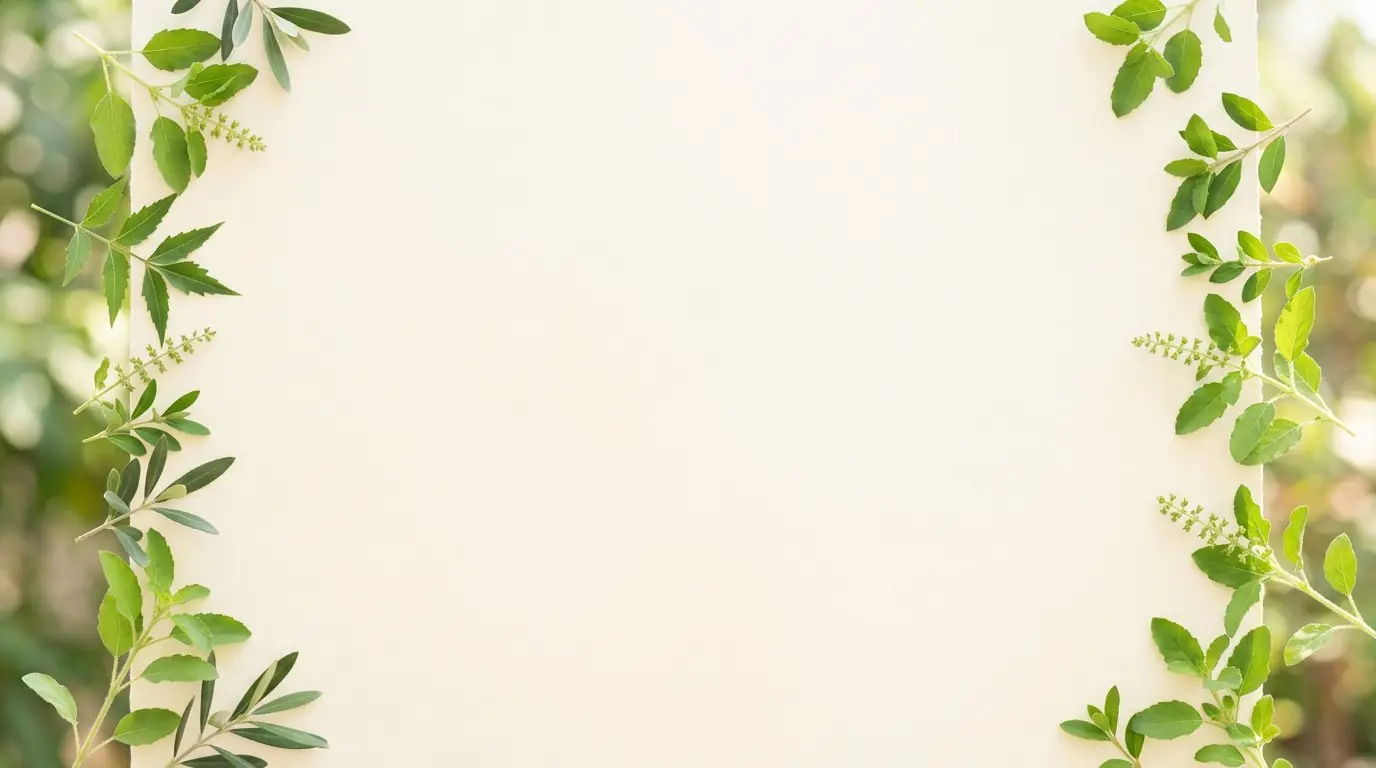
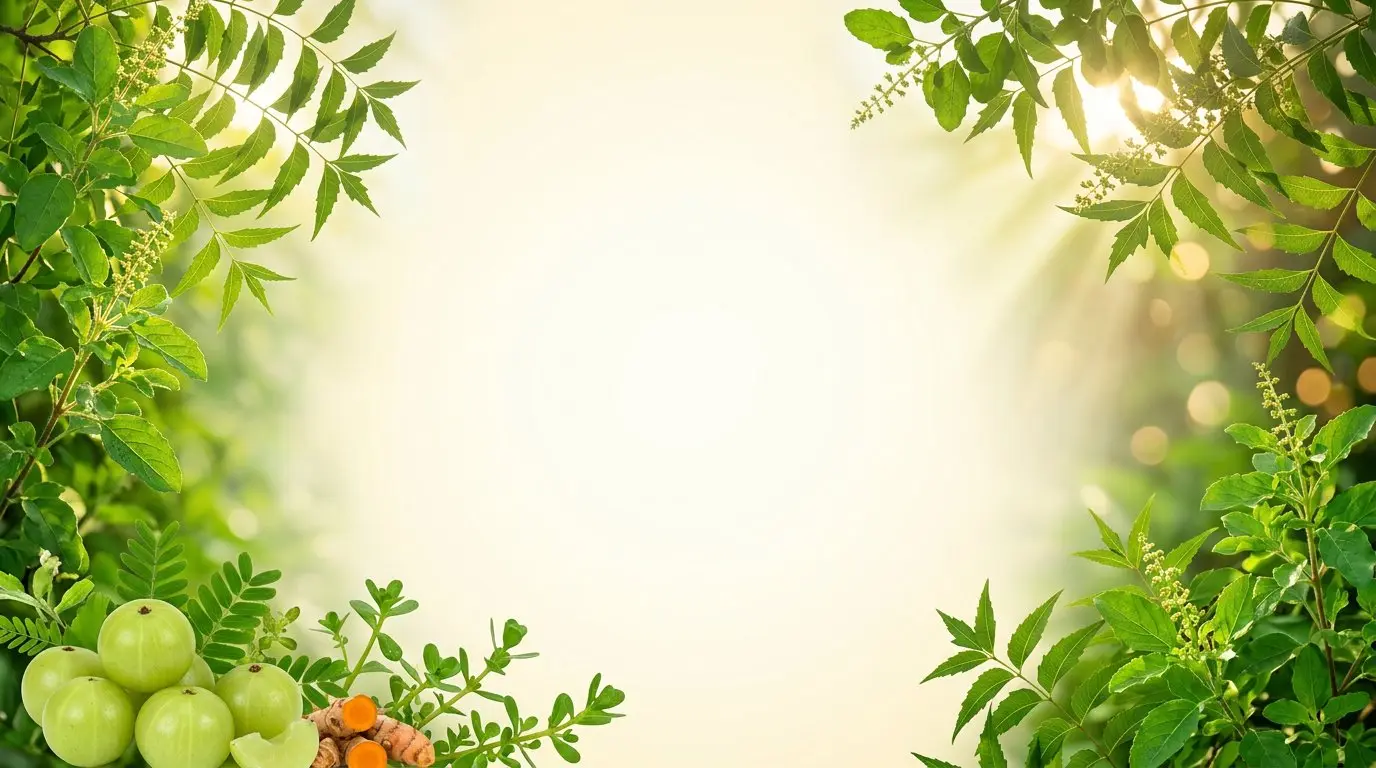
feat(homepage): vivid highlights backdrop + photographic product stages in cards
Owner feedback vs reference: Catalogue Highlights background still too
faint and product cards looked plain next to the mockup's scenic
cards. Fixed both while keeping REAL pack photographs (owner's
earlier explicit choice) and honest data:

- New highlights-botanical-bg.webp (same filename, 1376x768, 91KB):
  saturated neem/tulsi framing all edges, sunburst top-right,
  amla + turmeric bottom-left, bright empty ivory centre. Wash cut
  to a 0.30/0.12/0.34 gradient, section padding py-4/6 -> py-12/16
  so the backdrop frames the content, heading bumped to 4xl/5xl.
- ProductCard wells: pale radial gradient + outline sprigs replaced
  by photographic botanical 'display stages' (public/stages/):
  stage-syrup (aloe/amla/honey), stage-capsule (roots/garlic/mortar),
  stage-oil (golden bowl/herbs), stage-herbal (tulsi/turmeric),
  selected from ayurvedicFormulation with herbal fallback. Real pack
  photo multiply-blends onto the stage's bright centre with a soft
  ground shadow, so cards read as rich scenes while still showing
  actual packaging. Applies everywhere ProductCard renders
  (home/shop/category/wishlist/related).
- Formulation tag (SYRUP/CAPSULE/...) moved onto the image
  bottom-left in the reference's peach pill; body badge row is now
  bestseller-only. Pack padding trimmed for a larger presence.
- Deliberately NOT copied from the mockup: fabricated star ratings
  (4.8 (120) etc.), wrong prices (630/381 vs real DB 585/380), and
[…]

diff --git a/src/components/storefront/ProductCard.tsx b/src/components/storefront/ProductCard.tsx
@@ -37,6 +37,15 @@ export function ProductCard({ product }: ProductCardProps) {
   const inWishlist = isInWishlist(product.id);
   const isOutOfStock = !selectedVariant || selectedVariant.stockQuantity <= 0;
   const formulationLabel = product.ayurvedicFormulation?.replace(/_/g, ' ').trim();
+  const formulationKey = (product.ayurvedicFormulation || '').toUpperCase();
+  const stageImage =
+    formulationKey.includes('SYRUP') || formulationKey.includes('JUICE')
+      ? '/stages/stage-syrup.webp'
+      : formulationKey.includes('CAPSULE') || formulationKey.includes('TABLET')
+        ? '/stages/stage-capsule.webp'
+        : formulationKey.includes('OIL')
+          ? '/stages/stage-oil.webp'
+          : '/stages/stage-herbal.webp';
 
   const handleAddToCart = async (e: React.MouseEvent) => {
     e.preventDefault();
@@ -58,9 +67,17 @@ export function ProductCard({ product }: ProductCardProps) {
   return (
     <div className="group relative flex flex-col justify-between overflow-hidden rounded-[1.25rem] border border-[#EFE7D8] bg-white shadow-[0_6px_20px_-8px_rgba(27,67,50,0.12)] transition-all duration-300 hover:border-[#C5A880]/60 hover:shadow-[0_20px_40px_-16px_rgba(27,67,50,0.28)] motion-safe:hover:-translate-y-1">
       {/* MEDIA CONTAINER */}
-      <div className="relative aspect-[4/3] w-full overflow-hidden bg-[radial-gradient(circle_at_50%_45%,#FFFFFF_0%,#FFFDF8_42%,#F3ECD9_78%,#E2EDCE_100%)]">
-        <Leaf aria-hidden="true" className="absolute -left-2 -top-2 h-16 w-16 rotate-[20deg] text-[#1B4332]/10" />
-        <Leaf aria-hidden="true" className="absolute -bottom-3 -right-2 h-20 w-20 -scale-x-100 rotate-[15deg] text-[#1B4332]/10" />
+      <div className="relative aspect-[4/3] w-full overflow-hidden bg-[#F8F3E7]">
+        {/* Botanical display stage (decorative) — the real pack photo blends over its bright centre */}
+        <Image
+          src={stageImage}
+          alt=""
+          aria-hidden="true"
+          fill
+          sizes="(max-width: 768px) 50vw, (max-width: 1200px) 33vw, 25vw"
+          className="object-cover"
+        />
+        <div aria-hidden="true" className="absolute bottom-[12%] left-1/2 h-3 w-2/5 -translate-x-1/2 rounded-full bg-[#3A2A18]/15 blur-[6px]" />
         {/* Discount Badge */}
         {discountPercent > 0 && (
           <div className="absolute top-3 left-3 z-10 bg-[#C62828] text-white text-[10px] font-extrabold px-2 py-0.5 rounded-full shadow-sm">
@@ -82,6 +99,13 @@ export function ProductCard({ product }: ProductCardProps) {
           <Heart className={`w-4 h-4 ${inWishlist ? 'fill-red-600 text-red-600' : 'text-gray-500'}`} aria-hidden="true" />
         </button>
 
+        {/* Formulation tag overlapping the scene, as in the design reference */}
+        {formulationLabel && (
+          <span className="absolute bottom-3 left-3 z-10 inline-flex rounded-full bg-[#FBD9C2] px-2.5 py-1 text-[10px] font-bold uppercase tracking-wider text-[#7C4A21] shadow-sm">
+            {formulationLabel}
+          </span>
+        )}
+
         {/* Product Image Link */}
         <Link href={`/product/${product.slug}`} className="block w-full h-full" aria-label={`View ${product.name}`}>
           {primaryImage ? (
@@ -89,7 +113,7 @@ export function ProductCard({ product }: ProductCardProps) {
               src={primaryImage}
               alt={primaryImageAlt}
               fill
-              className="object-contain p-4 mix-blend-multiply transition-transform duration-300 motion-safe:group-hover:scale-105 sm:p-5"
+              className="object-contain p-3 mix-blend-multiply transition-transform duration-300 motion-safe:group-hover:scale-105 sm:p-4"
               sizes="(max-width: 768px) 50vw, (max-width: 1200px) 33vw, 25vw"
             />
           ) : (
@@ -103,21 +127,14 @@ export function ProductCard({ product }: ProductCardProps) {
       {/* CARD BODY CONTENT */}
       <div className="p-4 sm:p-5 flex-1 flex flex-col justify-between space-y-3">
         <div>
-          {/* Formulation Badge */}
-          <div className="mb-2 flex items-center justify-between gap-2">
-            {formulationLabel ? (
-              <span className="inline-flex rounded-full bg-[#FBEEE6] px-2 py-0.5 text-[10px] font-bold uppercase tracking-wider text-[#9A6B3F]">
-                {formulationLabel}
-              </span>
-            ) : (
-              <span aria-hidden="true" />
-            )}
-            {product.isBestseller && (
+          {/* Bestseller Badge (the formulation tag sits on the image) */}
+          {product.isBestseller && (
+            <div className="mb-2 flex items-center justify-end gap-2">
               <span className="rounded bg-emerald-50 px-1.5 py-0.5 text-[10px] font-extrabold tracking-wider text-emerald-700">
                 ★ BESTSELLER
               </span>
-            )}
-          </div>
+            </div>
+          )}
 
           {/* Product Title */}
           <Link href={`/product/${product.slug}`}>

diff --git a/src/app/page.tsx b/src/app/page.tsx
@@ -141,15 +141,15 @@ export default async function HomePage() {
       {/* CATALOGUE HIGHLIGHTS */}
       <section className="relative overflow-hidden" aria-labelledby="catalogue-highlights-heading">
         <div aria-hidden="true" className="pointer-events-none absolute inset-0 bg-[url('/banners/highlights-botanical-bg.webp')] bg-cover bg-center" />
-        <div aria-hidden="true" className="pointer-events-none absolute inset-0 bg-[#FAF7F2]/45" />
-        <div className="relative mx-auto max-w-7xl space-y-8 px-4 py-4 sm:px-6 sm:py-6 lg:px-8">
+        <div aria-hidden="true" className="pointer-events-none absolute inset-0 bg-[linear-gradient(180deg,rgba(250,247,242,0.3)_0%,rgba(250,247,242,0.12)_45%,rgba(250,247,242,0.34)_100%)]" />
+        <div className="relative mx-auto max-w-7xl space-y-8 px-4 py-12 sm:px-6 sm:py-16 lg:px-8">
         <div className="flex flex-col gap-6 lg:flex-row lg:items-end lg:justify-between">
           <div>
             <span className="flex items-center gap-2 text-[11px] font-bold uppercase tracking-[0.22em] text-[#1B4332]">
               <Leaf className="h-4 w-4 text-[#1B4332]" aria-hidden="true" />
               From Our Ayurvedic Catalogue
             </span>
-            <h2 id="catalogue-highlights-heading" className="mt-2 font-serif text-3xl font-bold text-[#0F281E] sm:text-4xl">
+            <h2 id="catalogue-highlights-heading" className="mt-2 font-serif text-4xl font-bold text-[#0F281E] sm:text-5xl">
               Catalogue <span className="text-[#A67C2E]">Highlights</span>
             </h2>
             <p className="mt-2 text-sm text-gray-500 sm:text-base">
